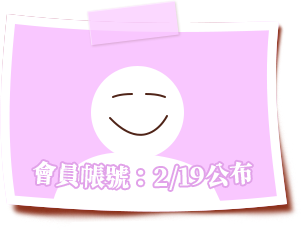
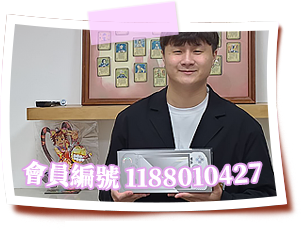
更新 ROG 電競掌機得獎名單

diff --git a/index.html b/index.html
@@ -189,7 +189,7 @@
                 <ul class="photos-group">
                     <li>
                         <figure>
-                            <img src="assets/images/photos-01.png" alt="ROG電競掌機：得獎者照片">
+                            <img src="assets/images/photos-01.png?v=2" alt="ROG電競掌機：得獎者照片">
                             <figcaption>ROG電競掌機</figcaption>
                         </figure>
                     </li>

diff --git a/README.md b/README.md
@@ -3,3 +3,4 @@
 - 專案上Github 2023/11/20
 - 專案完成交給PM 2023/11/22
 - 更新 Samsung Tab A9+ 平板
+- 更新 ROG 電競掌機得獎名單
